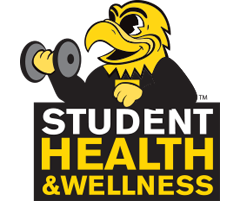
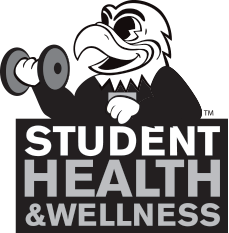
replaced dumbbell herky in sidebar with "Wellness" and moved it to the footer, which I also rearranged

diff --git a/themes/simple/css/styles.css b/themes/simple/css/styles.css
@@ -771,7 +771,7 @@ border:2px solid white;}
 
 #search {height:65px;}
 #quick-links, #sidebar-nav  {min-height:240px;}
-#health-iowa {min-height:460px;}
+#health-iowa {min-height:320px;}
 #quick-links li a {
 color:#333;
 text-decoration:none;
@@ -791,12 +791,17 @@ margin-bottom:7px;}
 #quick-links li.self-care{background:url(../images/self-care.png) no-repeat;}		
 
 h2.ha{ 
+font-size: 2.75em;
+font-weight: bold;
 width:230px;
-background:url(../images/dumbbell-herky.png) no-repeat -15px 0px;
-text-indent: -999em; 
-overflow: hidden; 
-height: 203px;
-margin-bottom: 15px;}
+overflow: hidden;
+margin-bottom: 20px;
+text-align: center;
+margin-left: -.2em;}
+
+h2.ha a{
+color: #666;
+}
 
 #health-iowa ul li a{
 float:left;
@@ -884,14 +889,31 @@ margin:20px auto 0px auto;}
 
 .footer-box {
 margin:0;
-width:320px;
+width:550px;
 float:left;}
 
 .footer-nav {
-float:right;
+float:left;
 font:lighter 13px Arial, Helvetica, sans-serif;
-width:630px;
-margin:0;
+width:380px;
+margin:0 0 0 50px;;
+}
+
+#herky{
+	background-image: url(../images/dumbbell-herky.png);
+	text-indent: -999px;
+	overflow: hidden;
+	width: 229px;
+	height: 233px;
+	float: left;
+	margin-right: 20px;
+	display: block;
+}
+
+#about{
+	height: 233px;
+	font-size: 14px;
+	line-height: 21px;
 }
 
 .footer-nav ul {margin:10px 0px 0px 0px;}
@@ -914,10 +936,10 @@ font:lighter 13px Arial, Helvetica, sans-serif;}
 
 .footer-nav li.home {
 margin:0 20px 0 0;
-width:130px;}
-.footer-nav li.services {width:160px;}
-.footer-nav li.wellness {width:170px;}
-.footer-nav li.health{}
+width:47%;}
+.footer-nav li.services {width:47%;}
+.footer-nav li.wellness {width:47%; margin-top: 20px;}
+.footer-nav li.health{margin-top: 20px;}
 .footer-nav li.newss{margin:20px 0 0 0;}
 
 #disclaimer {
@@ -941,7 +963,7 @@ font:lighter 13px/16px Arial, Helvetica, sans-serif;
 width:150px;
 height:80px;
 color:#666;
-margin:10px 0 30px 10px;
+margin:20px 0 40px 10px;
 float:left;}
 
 #uiowa img {
